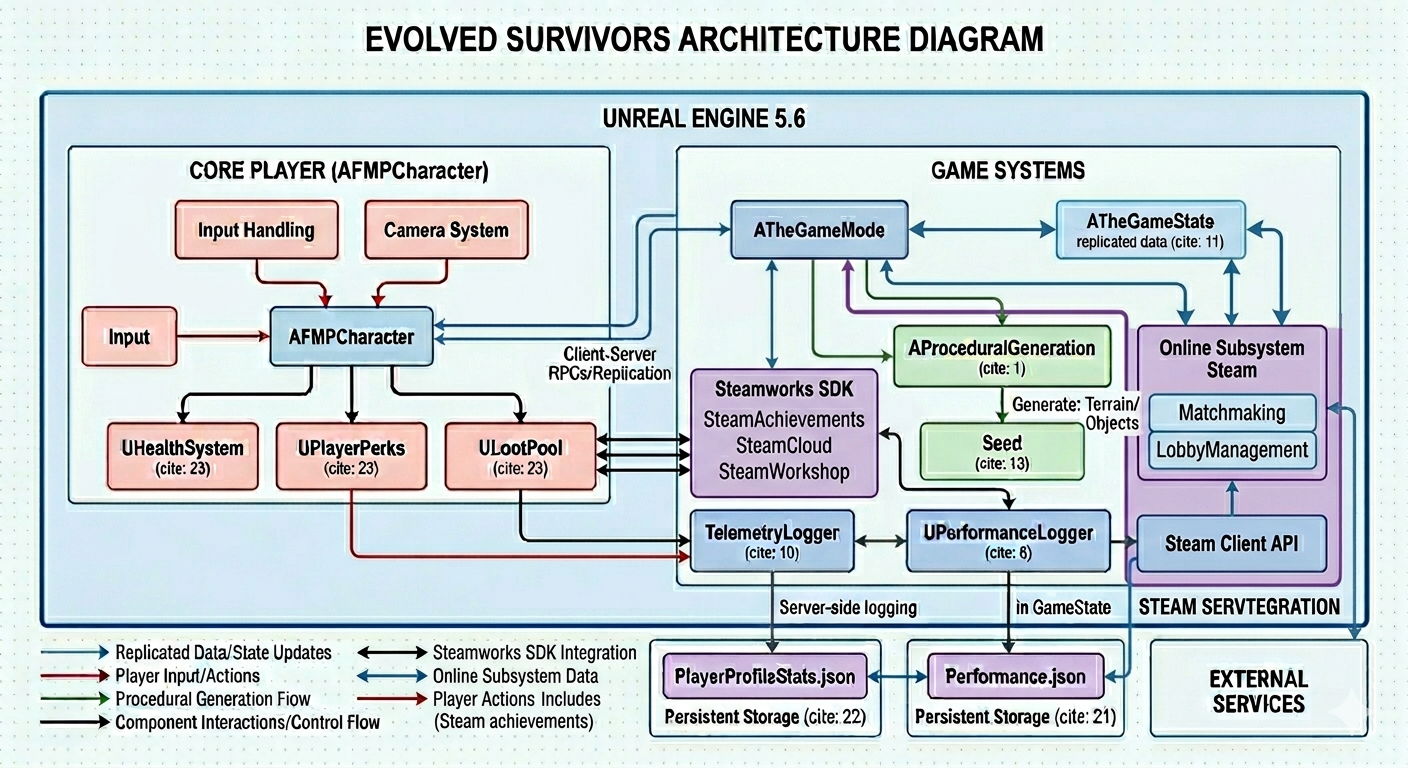
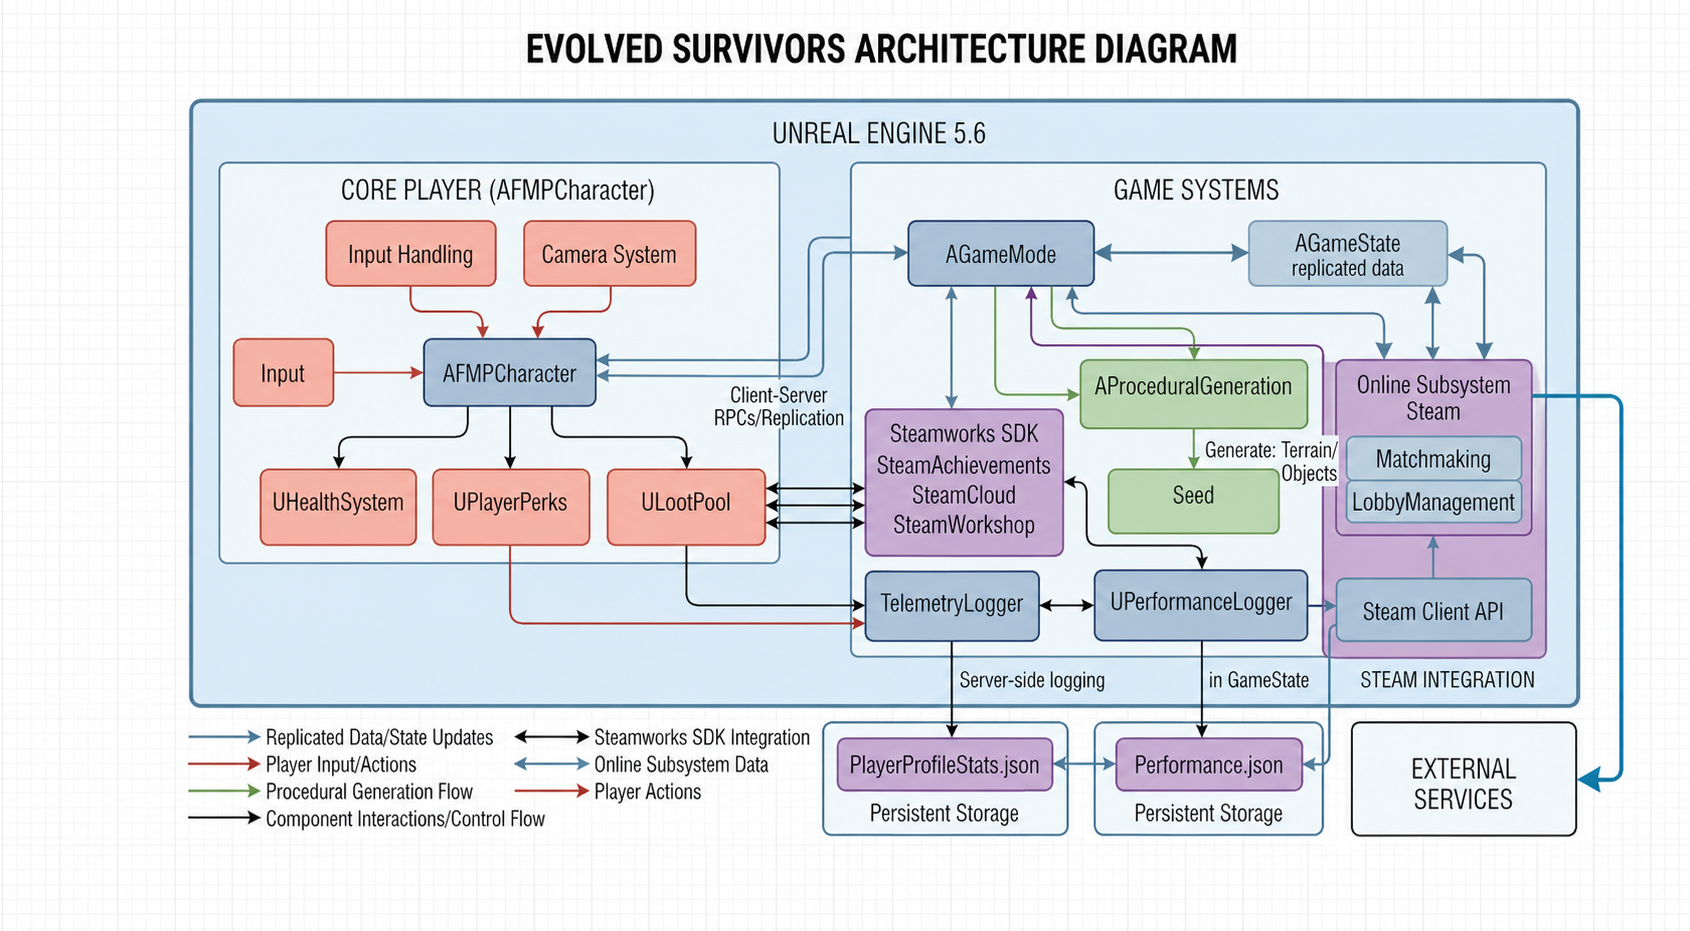
Added images in commentary

diff --git a/COMMENTARY.md b/COMMENTARY.md
@@ -30,6 +30,8 @@ The game demonstrates the core tenets of the Roguelike genre: Permadeath, Proced
 
 Researching Risk of Rain 2 was the most engaging part of my planning. I found the "Director" concept—where an invisible AI spends a "budget" to spawn enemies—to be a brilliant way to manage difficulty. I particularly enjoyed analyzing how the game maintains its challenge in multiplayer. However, I felt that the game’s reliance on RNG (Random Number Generation) can sometimes lead to "dead runs," which I aim to mitigate in my own design by ensuring a baseline level of player agency through the perk selection system.
 
+![My Photo](Images/RiskofRain2.png)
+
 ### Planning
 
 1. Environment Foundation: I began with Procedural Generation. This was the most complex technical task, so it was vital to ensure the world could generate and handle collisions before any other systems were built.
@@ -66,6 +68,8 @@ void UHealthSystem::DecreaseHealth(float HealthDelta, const class UDamageType* D
 ```
 
 The use of `FMath::Clam` ensures data integrity, preventing the CurrentHealth from ever entering a negative state, which could cause errors in UI progress bars or logic gates that check for death. This component-based approach allows the same health logic to be applied to AI enemies, where the delegate is bound to the AI Controller’s blackboard rather than a player’s HUD.
+
+![My Photo](Images/Health.gif)
 
 ### Procedural Generation: Algorithmic Efficiency and HISMs
 
@@ -159,6 +163,8 @@ void AProceduralGeneration::GenerateWorld()
 
 This approach achieves 100% visual parity across the network. Because the generation algorithm is mathematical and deterministic, the server only needs to send 4 bytes (the integer seed) rather than megabytes of vertex and transform data. This allows the game to support large-scale procedural worlds even on low-bandwidth connections, as the heavy lifting of construction happens locally on each client's CPU.
 
+![My Photo](Images/ProcGen.gif)
+
 ### The Game Framework: Authority vs. Synchronization
 
 In Unreal Engine’s multiplayer architecture, the relationship between the `GameMode` and `GameState` represents the fundamental divide between Server Authority and Client Representation. By strictly segregating logic into these two classes, I ensured that the "rules" of the Roguelike remain unhackable on the server while the "status" of the game is perfectly mirrored across all player screens.
@@ -199,6 +205,7 @@ void ATheGameMode::Logout(AController* Exiting)
 This implementation demonstrates a reactive difficulty system. By overriding PostLogin and Logout, the `GameMode` ensures that the challenge level is always mathematically proportional to the current team size, fulfilling the Roguelike requirement for a fair but escalating challenge.
 
 #### `ATheGameState`: The Synchronized Global Blackboard
+
 While the `GameMode` makes the decisions, the ATheGameState is responsible for broadcasting those decisions. It acts as a "Global Blackboard" that every client can read. All critical gameplay variables here are marked with the `Replicated` or `ReplicatedUsing` specifiers.
 
 A key feature of my `GameState` is the use of `RepNotify` (`ReplicatedUsing`) for the `ReadyPlayersCount` and `bIsRoundActiv` variables. This ensures that when the server updates these values, a specific function (OnRep_...) is triggered on every client, allowing the UI to update instantly without polling the server every frame.
@@ -279,6 +286,8 @@ void ATheGameMode::RefreshDifficultyScaling()
 ```
 
 This interaction ensures that the "Heavy Lifting" (AI management, spawning, and math) is hidden within the `GameMode`, while the `GameState` provides a clean, synchronized API for the clients to drive their HUDs and local visual effects. This architecture is the backbone of the project’s multiplayer stability, ensuring that even under high network load, the core rules of the game remain consistent for every participant.
+
+![My Photo](Images/RoundCountdown.gif)
 
 ### Perks and the Loot Pool: Data-Driven Extensibility
 
@@ -383,6 +392,8 @@ The interaction between these classes creates a robust "Selection Loop." When th
 
 This loop is highly efficient because the LootPool only exists to do the "math" of the draw, while the `PlayerPerks` remains a lightweight data container. This separation of concerns ensures that even in a chaotic 4-player multiplayer match, the game can handle hundreds of active perk instances across the team without causing server-side performance degradation or network desynchronization.
 
+![My Photo](Images/Perks.gif)
+
 ### Networking Strategy: RPCs and Validation
 
 The multiplayer architecture of this project is built upon the principle of `Server Authority`. In a networked environment, the client is essentially a "dumb terminal" that sends input requests to the server, which then simulates the results and broadcasts them back. To manage this communication, I utilized Remote Procedure Calls (RPCs)—specifically `Server` and `Client` functions—to bridge the gap between local player actions and global game state changes.
@@ -443,6 +454,8 @@ void UPlayerPerks::OnRep_LastEquippedPerk()
 
 By combining authoritative server validation with efficient replication types and local notifications, the networking strategy ensures a cheat-resistant environment that remains performant across varying network conditions.
 
+![My Photo](Images/Networking.gif)
+
 ### Analytics and Optimization: Performance and Telemetry
 
 To ensure the project met professional standards, I developed two specialized logging classes: `UPerformanceLogger` and `TelemetryLogger`. The `PerformanceLogger` is an `UActorComponent` attached to the `GameState` that captures frame-time, FPS, and memory usage metrics at a regular frequency using `FTimerHandle`.
@@ -462,7 +475,12 @@ void UPerformanceLogger::WriteLogToFile()
 ```
 The `TelemetryLogger` serves a different purpose: tracking the meta-progression of the Roguelike loop. It records which perks were unlocked and the highest round reached. This data is persistent, saved to the `ProjectSavedDir`, ensuring that player progress is retained across sessions. The technical achievement here is the robust handling of the `IPlatformFile` interface, which ensures the directory structure is created correctly across different operating systems, making the project's data management cross-platform ready.
 
+![My Photo](Images/Performance.png)
+
+![My Photo](Images/PlayerProfileStats.png)
+
 ### AI and Spawner Management
+
 The `AEnemySpawner` class manages the lifecycle of AI agents within the procedural environment. A major technical hurdle was ensuring enemies didn't spawn inside the geometry created by the `AProceduralGeneration` class. I solved this by implementing a Line Trace system that fires downwards from a randomized height. If the trace hits the `ProceduralMesh`, the system then utilizes the `UNavigationSystemV1` to find the nearest valid point on the `NavMesh`.
 
 ```
@@ -474,6 +492,8 @@ if (NavSys->GetRandomReachablePointInRadius(Hit.ImpactPoint, SpawnRadius, NavLoc
 ```
 
 By spawning the enemies 70 units above the ground, I ensured they "settle" onto the floor correctly, preventing them from falling through the world due to collision overlap. The spawner also maintains a `TArray<AActor*> SpawnedEnemies` to monitor the population. This allows the `GameMode` to enforce a hard cap on concurrent enemies, preventing the server from being overwhelmed by AI calculations and ensuring that the tick-rate remains high enough for a smooth multiplayer experience.
+
+![My Photo](Images/AI.gif)
 
 ### Full Documentation & Architecture Diagram
 
@@ -629,6 +649,8 @@ The testing phase was conducted through a series of playtests involving 12 exter
 | **Cam Bug** | When enemies go right next to player the camera pushes right against the player's back and players cannot see | Turn enemy collision preset for both its capsule component  and mesh to custom to tick ignore camera |
 | **Static Meshes Colision Bug** | Players and enemies can stand on small foliage | Remove collision on small foliage |
 | **World Desynchronization** | Players would see different world compared to each but still exist in same same world | replaced all the FMath random to the custom roundom stream variable to handle the random calculations and then execute the exact same sequence of random number calls by keeping loop logic and variable updates outside of HasAuthority() blocks |
+
+## User Testing
 
 ## Evaluation
 
